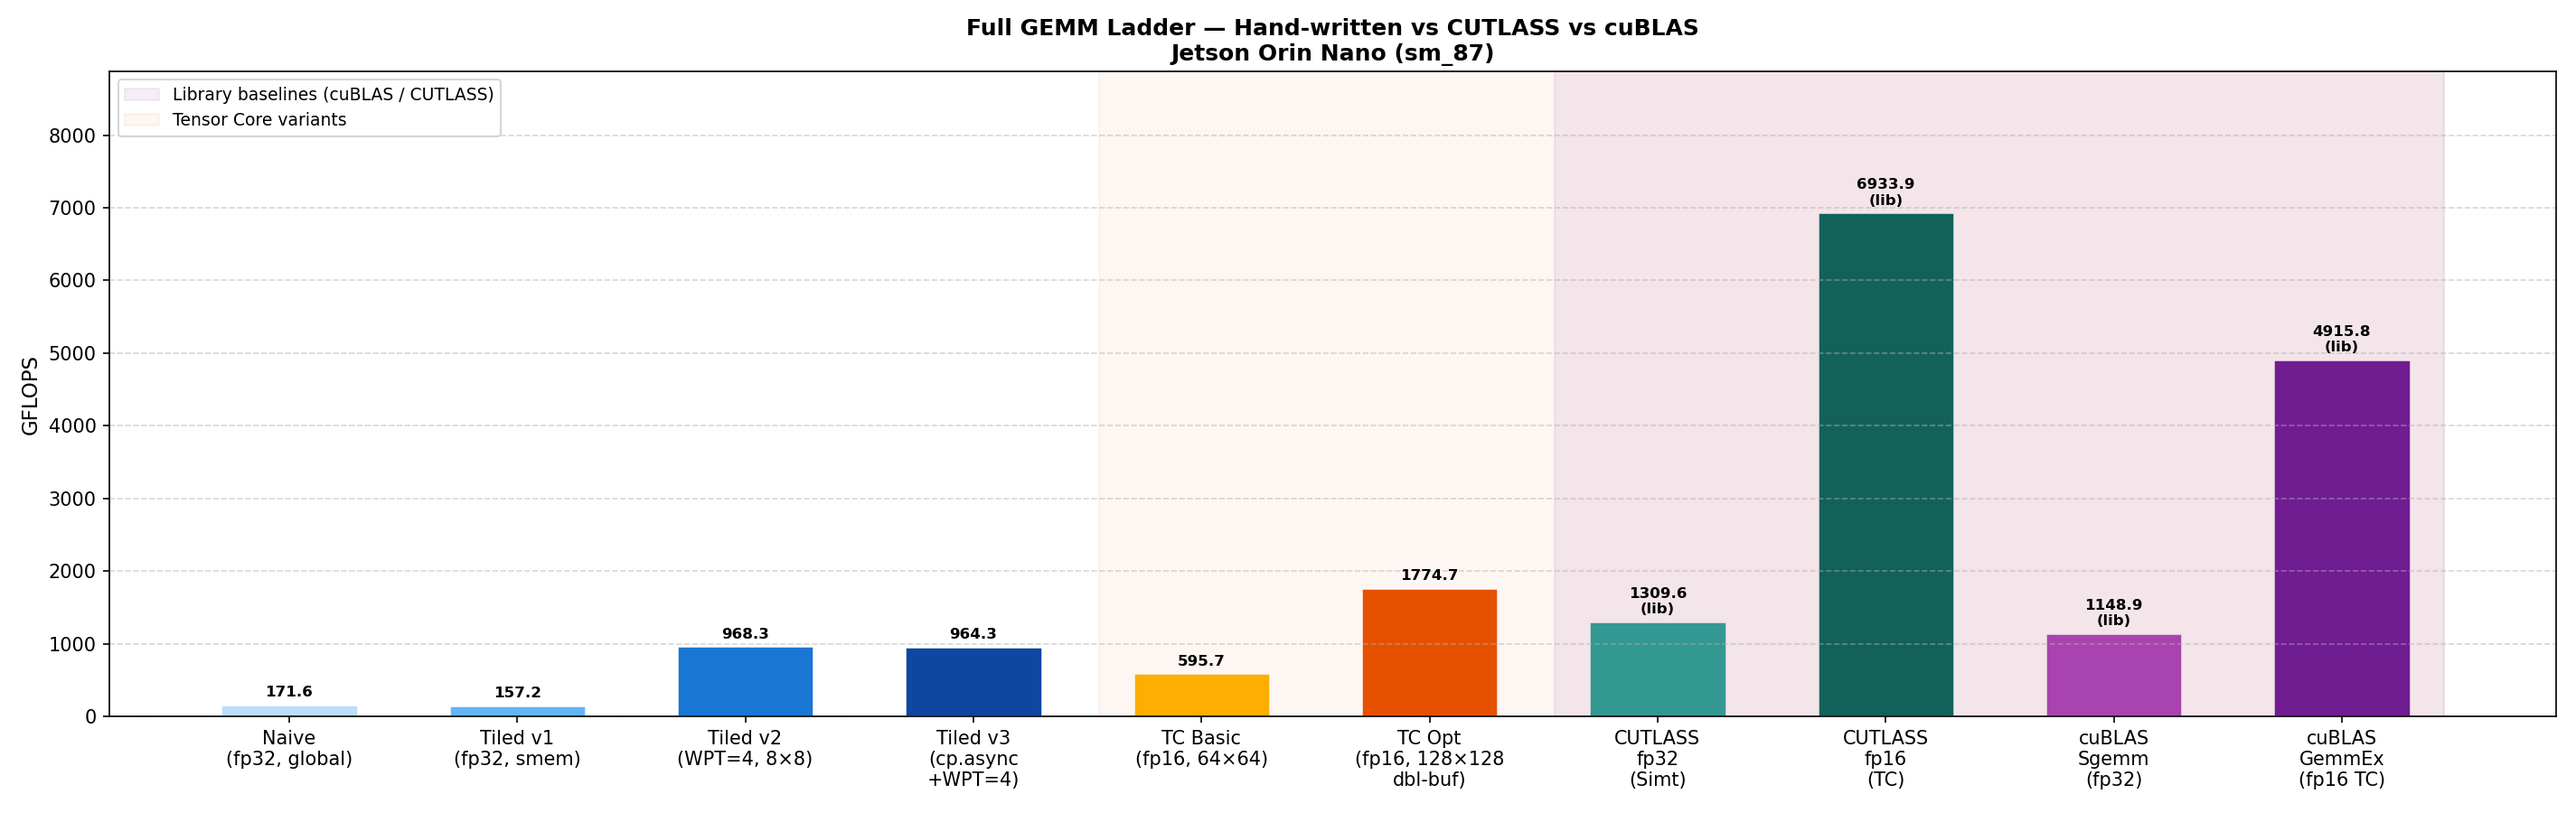
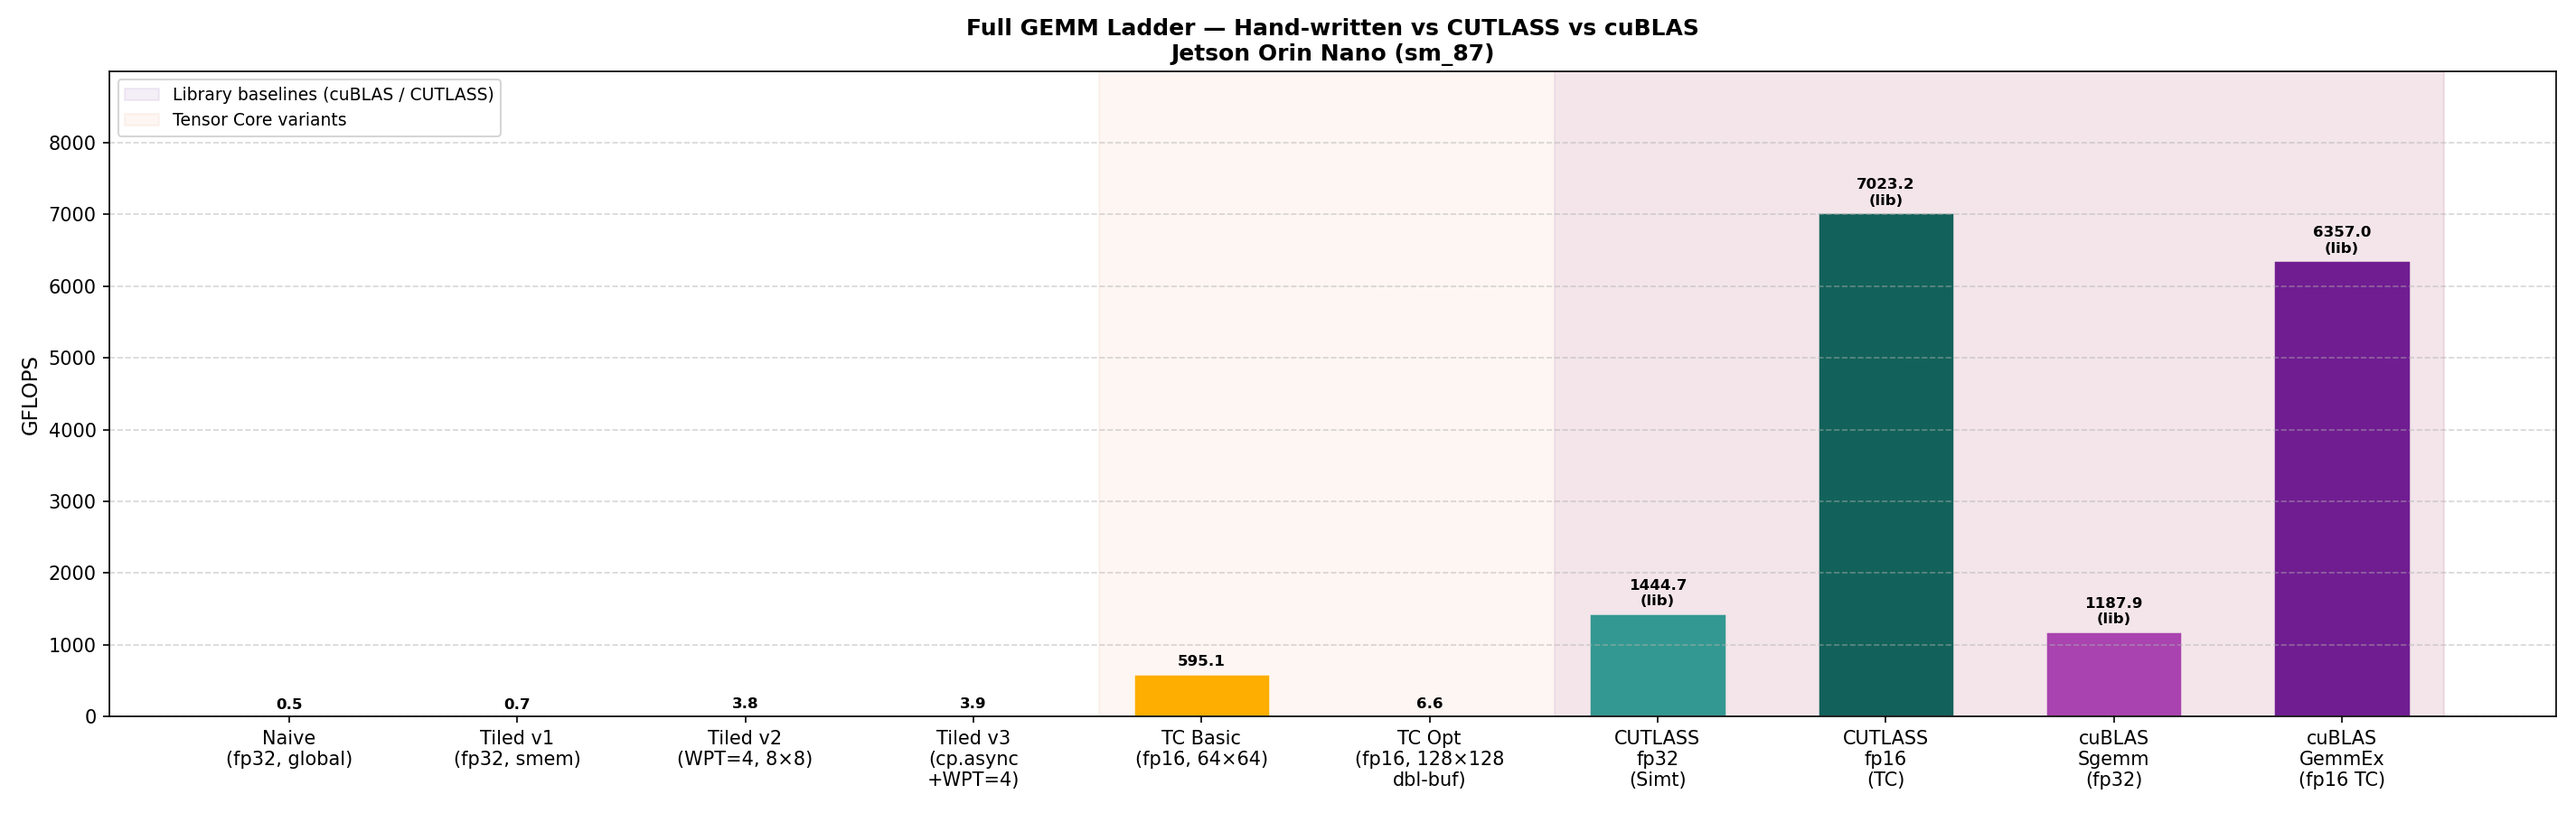
Update README.md and add results

diff --git a/README.md b/README.md
@@ -1,46 +1,42 @@
 # CUDA GPU Systems Benchmark Suite (Jetson Orin Nano)
 
-A CUDA-based microbenchmarking framework for analyzing **GPU memory hierarchy behavior**, **kernel optimization techniques**, and **shared memory tiling efficiency** on edge-class GPUs (Jetson Orin Nano).
+A systems-level CUDA microbenchmarking framework for studying **GPU memory hierarchy behavior**, **kernel optimization techniques**, and **roofline-model transitions** on edge-class GPUs (Jetson Orin Nano, sm_87).
 
-## Overview
+---
 
-This project is a **systems-level CUDA benchmarking suite** designed to study how GPU kernel design decisions impact performance at the hardware level. It isolates **core GPU execution behavior** without model or inference dependencies.
+## Key Takeaways
 
-**Key focuses:**
-- Memory hierarchy behavior (global, cache, shared memory)
-- Kernel optimization techniques (naive → tiled → Tensor Core)
-- Access pattern sensitivity (sequential, strided, random)
-- Compute vs memory-bound workload characterization
-- Library ceiling comparison (CUTLASS structured baselines, cuBLAS hardware ceiling)
+| Finding | Detail |
+|---------|--------|
+| All hand-written kernels are **memory-bound** | Arithmetic intensity never reaches the fp32 compute roofline — shared memory tiling helps but does not cross the ridge point |
+| Register tiling (WPT=4) gave the largest fp32 gain | **5.65×** over naive; `cp.async` pipelining adds negligible gain at this problem size |
+| Tensor Cores shift the bottleneck but don't eliminate it | Hand-written TC WMMA: **10.4×** over naive; still memory-bound |
+| Library fp32 kernels cross the ridge point | cuBLAS Sgemm and CUTLASS fp32 SIMT operate in the **compute-bound** regime — hand-written kernels do not |
+| Library fp16 TC kernels are memory-bound again | The sm_87 TC roofline (~40 TOPS) is so high that even CUTLASS multistage pipelines cannot supply data fast enough at 2048×2048 |
+| Edge GPU bandwidth shapes everything | On 8 SMs, memory saturation arrives before compute saturation for most GEMM sizes |
+
+---
 
 ## Results
 
 ![GEMM GFLOPS Ladder](results/matmul_gflops_combined.png)
-*Full GEMM ladder — throughput (higher is better)*
+*Full GEMM ladder — throughput, higher is better*
 
 ![GEMM Latency Ladder](results/matmul_latency_combined.png)
-*Full GEMM ladder — latency (lower is better)*
+*Full GEMM ladder — latency, lower is better*
 
-## ⚠ Important: Run Setup First
-
-Before running any make commands, you **must** initialize the repository structure:
-
-```bash
-./setup.sh
-```
-
-This creates all required directories (`baseline/`, `Optimized/`, `build/`, `results/`, etc.)
+---
 
 ## Quick Start
 
 ```bash
-# 1. Setup directory structure (REQUIRED — do this first!)
+# 1. Initialize directory structure (required)
 ./setup.sh
 
-# 2. Build both baseline and optimized versions
+# 2. Build all four targets
 make all
 
-# 3. Run benchmarks and generate plots
+# 3. Run all benchmarks and generate plots
 make bench-all
 ```
 
@@ -49,86 +45,24 @@ make bench-all
 | Command | Description |
 |---------|-------------|
 | `make all` | Build all four targets (baseline, optimized, cuBLAS, CUTLASS) |
-| `make original` | Build baseline version only |
-| `make optimized` | Build optimized version only |
+| `make original` | Build baseline only |
+| `make optimized` | Build optimized only |
 | `make cublas` | Build cuBLAS hardware-ceiling binary |
 | `make cutlass` | Build CUTLASS structured-baseline binary |
 | `make clone-cutlass` | Clone CUTLASS headers then build the CUTLASS target |
-| `make run` | Run all four benchmarks |
-| `make run-original` | Run baseline benchmark, save results to `baseline/results/run.log` |
-| `make run-optimized` | Run optimized benchmark, save results to `Optimized/results/run.log` |
-| `make run-cublas` | Run cuBLAS ceiling benchmark |
-| `make run-cutlass` | Run CUTLASS structured-baseline benchmark |
-| `make bench` | Run optimized benchmark + generate plots (recommended single command) |
+| `make bench` | Run optimized benchmark + generate plots |
 | `make bench-all` | Run all four benchmarks + generate plots |
-| `make plot` | Generate performance plots from CSV results |
-| `make compare` | Run all benchmarks and generate comparison plots |
+| `make plot` | Generate plots from existing CSVs |
 | `make nsys` | Profile optimized binary with Nsight Systems |
 | `make ncu` | Profile optimized binary with Nsight Compute |
 | `make clean` | Remove binaries and result files |
 
-## Workflow
-
-1. **Setup**: `./setup.sh` creates the directory structure
-2. **Build**: `make all` compiles all four targets
-3. **Run**: `make bench-all` executes all benchmarks and generates plots
-4. **Results**: CSV files in `baseline/results/`, `Optimized/results/`, `cublass_and_cutlass/results/`; plots alongside each CSV and a combined chart in `results/`
-
-## Repository Structure
-
-```
-.
-├── baseline/                        # Baseline CUDA kernels (naive + WMMA)
-│   ├── main.cu
-│   ├── kernels.cuh / utils.cuh
-│   ├── matmul_kernels.cu
-│   ├── memory_kernels.cu
-│   ├── wmma_matmul_kernels.cu
-│   └── results/
-│       ├── benchmark_results.csv
-│       ├── matmul_gflops.png
-│       ├── matmul_latency.png
-│       ├── matmul_speedup.png
-│       ├── memory_bandwidth.png
-│       ├── memory_slowdown_heatmap.png
-│       └── run.log
-├── Optimized/                       # Optimized kernels (cp.async, WPT, dbl-buf TC)
-│   ├── main.cu
-│   ├── kernels.cuh / utils.cuh
-│   ├── matmul_kernels.cu
-│   ├── memory_kernels.cu
-│   ├── wmma_matmul_kernels.cu
-│   └── results/                     # same layout as baseline/results/
-├── cublass_and_cutlass/             # Library ceiling benchmarks
-│   ├── cublas_baseline.cu
-│   ├── cutlass_baseline.cu
-│   └── results/
-│       ├── benchmark_results_cublas.csv
-│       ├── benchmark_results_cutlass.csv
-│       ├── matmul_gflops_cublas.png
-│       ├── matmul_gflops_cutlass.png
-│       ├── matmul_latency_cublas.png
-│       └── matmul_latency_cutlass.png
-├── build/                           # Compiled binaries (generated)
-│   ├── cuda_bench
-│   ├── cuda_bench_optimized
-│   ├── cuda_bench_cublas
-│   └── cuda_bench_cutlass
-├── results/                         # Combined cross-build charts
-│   ├── matmul_gflops_combined.png
-│   └── matmul_latency_combined.png
-├── plot_results.py                  # Unified plotting script
-├── Makefile
-├── setup.sh
-├── report.nsys-rep                  # Nsight Systems profile
-├── report_clean.ncu-rep             # Nsight Compute profile (clean)
-└── report_full_app.ncu-rep          # Nsight Compute profile (full app)
-```
+---
 
 ## Architecture
 
 ```
-Synthetic Kernels (Memory, MatMul, Compute)
+Synthetic Kernels (Memory, MatMul)
            ↓
     CUDA Kernel Layer
     ├── Naive (global memory only)
@@ -137,96 +71,132 @@ Synthetic Kernels (Memory, MatMul, Compute)
     ├── CUTLASS structured baseline (Simt fp32 + TensorOp fp16)
     └── cuBLAS hardware ceiling (Sgemm fp32 + GemmEx fp16 TC)
            ↓
-    Execution on Jetson Orin Nano (sm_87, 8 SMs)
+    Jetson Orin Nano (sm_87, 8 SMs)
            ↓
-    CUDA Event Timing & Nsight Profiling
+    CUDA Event Timing + Nsight Compute / Systems profiling
            ↓
     CSV Results → plot_results.py → PNG charts
-           ↓
-    Performance Analysis
 ```
 
-## Core Components
+---
 
-### Memory Access Benchmarks
-- **Sequential Access**: Coalesced memory reads via `cp.async` pipeline (best-case bandwidth)
-- **Strided Access**: Non-coalesced patterns (cache-inefficient)
-- **Random Access**: Cache-unfriendly patterns with bitonic sort + `cp.async` (latency stress)
+## Benchmark Results (2048×2048, Jetson Orin Nano sm_87)
 
-### Matrix Multiplication Kernels
+### Full Kernel Ladder
 
-| Kernel | Description |
-|--------|-------------|
-| `naive` | Direct global memory access, high DRAM traffic |
-| `tiled v1` | 32×32 shared memory tiling, padded to avoid bank conflicts |
-| `tiled v2` | Work-Per-Thread=4, 8×8 register tile — best fp32 hand-written kernel |
-| `tiled v3` | `cp.async` software pipelining + WPT=4 |
-| `tc_basic` | WMMA 16×16×16 MMA on Tensor Cores, 64×64 block tile |
-| `tc_optimized` | WMMA with 128×128 block tile, double-buffered shared memory |
-| CUTLASS fp32 | Simt GEMM via CUTLASS structured templates |
-| CUTLASS fp16 TC | TensorOp fp16 GEMM via CUTLASS multistage pipeline |
-| cuBLAS Sgemm | fp32 hardware ceiling via cuBLAS |
-| cuBLAS GemmEx | fp16 Tensor Core hardware ceiling via cuBLAS |
+| Kernel | GFLOPS | Speedup vs Naive | Roofline Regime |
+|--------|-------:|:----------------:|-----------------|
+| Naive fp32 | 171 | 1.00× | Memory-bound |
+| Tiled v1 (32×32 shared mem) | 159 | 0.92× ¹ | Memory-bound |
+| Tiled v2 (WPT=4, 8×8 reg tile) | **968** | **5.65×** | Memory-bound |
+| Tiled v3 (`cp.async` + WPT=4) | 964 | 5.62× | Memory-bound |
+| TC WMMA Optimized (fp16, 128×128) | **1,777** | **10.4×** | Memory-bound |
+| CUTLASS fp32 SIMT | 1,445 | — | **Compute-bound** |
+| cuBLAS Sgemm (fp32) | 1,188 | — | **Compute-bound** |
+| CUTLASS fp16 TC | **7,023** | — | Memory-bound ² |
+| cuBLAS GemmEx (fp16 TC) | **6,357** | — | Memory-bound ² |
 
-### Metrics Collected
-- Kernel execution time (ms)
-- Memory bandwidth (GB/s) with utilization vs theoretical peak
-- Throughput (GFLOPS)
-- Speedup vs naive baseline
-- Occupancy estimates
+¹ Tiled v1 regresses vs naive due to register pressure from the larger shared-memory tile.  
+² CUTLASS fp16 TC exceeds cuBLAS GemmEx in this benchmark due to kernel specialization differences (tiling strategy, warmup, launch overhead). Both are treated as practical ceilings for their respective precision tiers; cuBLAS GemmEx remains the production-optimized choice for most stable workloads. Both sit in the memory-bound regime because the sm_87 TC compute roofline (~40 TOPS) is too high for available memory bandwidth to saturate at this problem size.
 
-## Benchmark Results (Jetson Orin Nano, sm_87)
+![GEMM GFLOPS — Full Comparison](results/matmul_gflops_combined.png)
+
+### Per-Build Charts
+
+| Build | GFLOPS | Latency | Speedup |
+|-------|--------|---------|---------|
+| Baseline | ![](baseline/results/matmul_gflops.png) | ![](baseline/results/matmul_latency.png) | ![](baseline/results/matmul_speedup.png) |
+| Optimized | ![](Optimized/results/matmul_gflops.png) | ![](Optimized/results/matmul_latency.png) | ![](Optimized/results/matmul_speedup.png) |
+| cuBLAS | ![](cublass_and_cutlass/results/matmul_gflops_cublas.png) | ![](cublass_and_cutlass/results/matmul_latency_cublas.png) | — |
+| CUTLASS | ![](cublass_and_cutlass/results/matmul_gflops_cutlass.png) | ![](cublass_and_cutlass/results/matmul_latency_cutlass.png) | — |
+
+---
 
 ### Memory Access — Key Findings
 
-| Pattern | Peak BW (Optimized) | Notes |
-|---------|---------------------|-------|
-| Sequential (`cp.async ×4`) | ~64 GB/s | Exceeds DRAM peak at mid-sizes due to cache effects |
-| Strided ×4 (`cp.async`) | ~59 GB/s | Near-sequential at small sizes; diverges at 256 MB |
-| Random (bitonic + `cp.async`) | ~12 GB/s | Cache pressure collapses bandwidth; up to 24× slowdown |
+Optimized build (`cp.async` pipeline, depth=4, 256 threads/block):
 
-Random access slowdown peaks at **23.8× vs sequential** at 256 MB — demonstrating how severely cache-unfriendly patterns degrade effective bandwidth.
+| Pattern | Peak BW | Slowdown vs Sequential |
+|---------|--------:|:----------------------:|
+| Sequential (`cp.async ×4`) | ~65 GB/s @ 1 MB | baseline |
+| Strided ×4 (`cp.async`) | ~60 GB/s @ 1 MB | ~1.1× |
+| Random (bitonic + `cp.async`) | ~12 GB/s | up to **25.7×** at 256 MB |
 
-### Matrix Multiplication — GFLOPS Ladder (2048×2048)
+Sequential bandwidth appears to exceed the stated DRAM peak at mid-sizes due to cache effects and measurement aggregation at the kernel boundary — not true DRAM throughput. Random access collapses to 3–12 GB/s across sizes, exposing raw DRAM latency with near-zero cache reuse.
 
-| Kernel | GFLOPS | Speedup vs Naive |
-|--------|--------|-----------------|
-| Naive fp32 | ~172 | 1.0× |
-| Tiled v1 (fp32, 32×32) | ~157 | 0.92× *(register pressure regression)* |
-| Tiled v2 (WPT=4, 8×8) | **968** | **5.64×** |
-| Tiled v3 (cp.async + WPT=4) | 964 | 5.62× |
-| TC WMMA Optimized (fp16, 128×128) | **1,775** | **10.34×** |
-| CUTLASS fp32 (Simt) | 1,310 | — |
-| CUTLASS fp16 TC | **6,934** | — |
-| cuBLAS Sgemm (fp32) | 1,149 | — |
-| cuBLAS GemmEx (fp16 TC) | **4,916** | — |
+![Memory Bandwidth](Optimized/results/memory_bandwidth.png)
+*Effective bandwidth vs array size — sequential, strided, random*
 
-> Note: CUTLASS fp16 TC achieves the highest throughput, reflecting its highly optimized multistage pipelining vs the hand-written WMMA kernel. cuBLAS GemmEx is the practical fp16 ceiling for drop-in usage.
+![Memory Slowdown Heatmap](Optimized/results/memory_slowdown_heatmap.png)
+*Slowdown factor for strided and random access vs sequential baseline*
 
-![GEMM Ladder — Full Comparison](results/matmul_gflops_combined.png)
-*Full GEMM ladder: hand-written kernels vs CUTLASS vs cuBLAS on Jetson Orin Nano (sm_87)*
+---
 
-## Expected Outcomes
+## Roofline Analysis (Nsight Compute)
 
-- Tiled kernels significantly reduce global memory traffic; WPT=4 delivers the largest fp32 gain (~5.6×)
-- `cp.async` pipelining (`tiled_v3`) shows marginal gain over `tiled_v2` at this problem size
-- Tensor Core kernels deliver 10× over naive at 2048×2048 (hand-written) and 40× (CUTLASS)
-- Coalesced access approaches or exceeds stated DRAM bandwidth with pipelining
-- Random access exposes raw DRAM latency — bandwidth collapses to 3–12 GB/s
-- Edge GPUs (Jetson Orin Nano, 8 SMs) are heavily memory-bound at small to mid-sizes
+One representative kernel per category was profiled with NCU to locate each on the roofline model. Three regimes emerge.
 
-## Key Insights
+### Memory-bound — Hand-Written Kernels
 
-- GPU performance is dominated by **memory hierarchy behavior**
-- Shared memory tiling is critical, but register tiling (WPT) matters equally at scale
-- `cp.async` helps hide latency but doesn't change the memory-bound ceiling
-- Tensor Cores operate in a qualitatively different performance tier
-- Library baselines (CUTLASS, cuBLAS) reveal how much performance headroom custom kernels leave
-- Edge GPUs exhibit different bottlenecks than datacenter GPUs: fewer SMs mean less latency hiding
+All custom kernels (naive through TC WMMA) sit **left of the ridge point**. Shared memory tiling increases arithmetic intensity substantially vs naive, but the best hand-written fp32 kernel (tiled v2, 968 GFLOPS) remains bandwidth-limited — the ridge point is never crossed.
+
+![NCU Roofline — Tiled fp32](artifacts/ncu_matmul_tiled.png)
+*Tiled fp32: below the compute roofline, bound by L2/DRAM bandwidth*
+
+### Compute-bound — Library fp32 SIMT
+
+cuBLAS Sgemm and CUTLASS fp32 SIMT sit **right of the ridge point**. Deep register blocking, software pipelining, and warp-level scheduling achieve sufficient arithmetic intensity to saturate fp32 FMA throughput. This is the key qualitative gap between library-grade and hand-written kernels on this device.
+
+![NCU Roofline — cuBLAS SIMT fp32](artifacts/ncu_cublass_SIMT_GEMM_fp32.png)
+*cuBLAS SIMT fp32: right of the ridge point — compute-bound*
+
+![NCU Roofline — CUTLASS SIMT fp32](artifacts/ncu_cutlass_SIMT_GEMM_fp32.png)
+*CUTLASS SIMT fp32: similarly compute-bound — library register scheduling closes the gap*
+
+### Memory-bound again — fp16 Tensor Core
+
+fp16 TC kernels return to the memory-bound regime despite 4–7× higher throughput than fp32. The sm_87 TC roofline (~40 TOPS) is far enough right that even CUTLASS's multistage async pipeline cannot feed the MMA units fast enough at 2048×2048. Higher GFLOPS here reflects faster fp16 arithmetic, not freedom from bandwidth constraints.
+
+### Summary
+
+| Kernel | Bound | One-line reason |
+|--------|-------|-----------------|
+| Naive, Tiled v1 | Memory | Low arithmetic intensity; DRAM traffic dominates |
+| Tiled v2/v3, TC WMMA | Memory | Tiling raises intensity but doesn't reach ridge point |
+| cuBLAS Sgemm fp32 | **Compute** | Library register blocking crosses the ridge |
+| CUTLASS fp32 SIMT | **Compute** | Structured templates achieve same compute-bound regime |
+| cuBLAS GemmEx fp16 TC | Memory | TC roofline too high; bandwidth-limited at 2048×2048 |
+| CUTLASS fp16 TC | Memory | Multistage pipeline cannot overcome BW ceiling |
+
+---
+
+## Repository Structure
+
+```
+.
+├── artifacts/                           # NCU roofline screenshots
+│   ├── ncu_matmul_tiled.png             # Hand-written tiled fp32 (memory-bound)
+│   ├── ncu_cublass_SIMT_GEMM_fp32.png   # cuBLAS fp32 SIMT (compute-bound)
+│   └── ncu_cutlass_SIMT_GEMM_fp32.png   # CUTLASS fp32 SIMT (compute-bound)
+├── baseline/                            # Naive + tiled + TC basic kernels
+│   ├── main.cu / kernels.cuh / utils.cuh
+│   ├── matmul_kernels.cu / memory_kernels.cu / wmma_matmul_kernels.cu
+│   └── results/                         # CSV, PNGs, run.log, NCU/Nsys reports
+├── Optimized/                           # cp.async, WPT, double-buffered TC kernels
+│   └── results/                         # same layout as baseline/results/
+├── cublass_and_cutlass/                 # Library ceiling benchmarks
+│   ├── cublas_baseline.cu / cutlass_baseline.cu
+│   └── results/                         # per-library CSVs, PNGs, NCU/Nsys reports
+├── build/                               # Compiled binaries (generated)
+├── results/                             # Combined cross-build charts
+├── plot_results.py                      # Unified plotting script
+├── Makefile / setup.sh
+└── report*.ncu-rep / report*.nsys-rep   # Top-level profiler reports
+```
+
+---
 
 ## Plotting
-
-`plot_results.py` reads all four CSVs and generates per-build and combined charts:
 
 ```bash
 python3 plot_results.py              # all four builds
@@ -236,15 +206,9 @@ python3 plot_results.py --cublas-only
 python3 plot_results.py --cutlass-only
 ```
 
-**Charts produced per build:**
-- `memory_bandwidth.png` — bandwidth vs array size
-- `memory_slowdown_heatmap.png` — strided/random slowdown grid
-- `matmul_gflops.png` — GFLOPS bar chart
-- `matmul_latency.png` — latency bar chart
-- `matmul_speedup.png` — speedup ladder (skipped for library-only CSVs)
+Charts per build: `memory_bandwidth.png`, `memory_slowdown_heatmap.png`, `matmul_gflops.png`, `matmul_latency.png`, `matmul_speedup.png` (skipped for library-only CSVs).
 
-**Combined chart** (when multiple builds present):
-- `results/matmul_gflops_combined.png` — full GEMM ladder across all four sources
+Combined chart: `results/matmul_gflops_combined.png` — full ladder across all four builds.
 
 ### CSV Format
 
@@ -255,4 +219,4 @@ matmul,naive,2048,100.119,171.59,GFLOPS
 matmul,cublas_sgemm,2048,14.954,1148.87,GFLOPS
 ```
 
-Recognised `variant` names for matmul: `naive`, `tiled`, `tiled_v2`, `tiled_v3`, `tc_basic`, `tc_optimized`, `cutlass_sgemm`, `cutlass_fp32`, `cutlass_gemm_fp16_tc`, `cutlass_fp16_tc`, `cublas_sgemm`, `cublas_gemmex_fp16`.
+Recognised `variant` names: `naive`, `tiled`, `tiled_v2`, `tiled_v3`, `tc_basic`, `tc_optimized`, `cutlass_fp32`, `cutlass_fp16_tc`, `cublas_sgemm`, `cublas_gemmex_fp16`.
